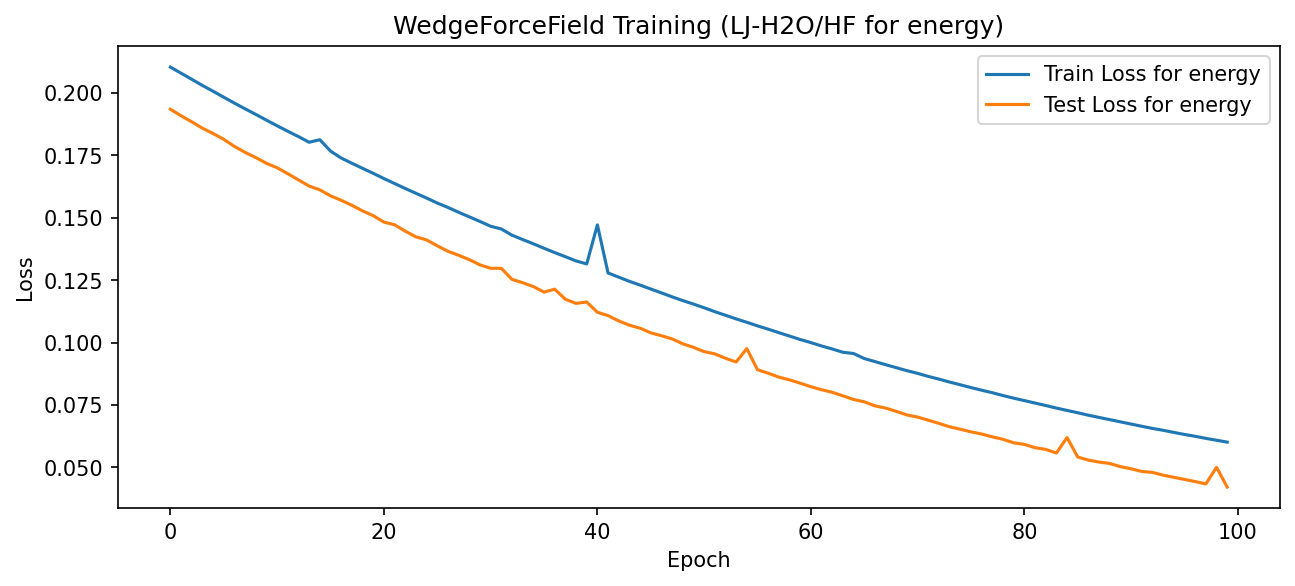
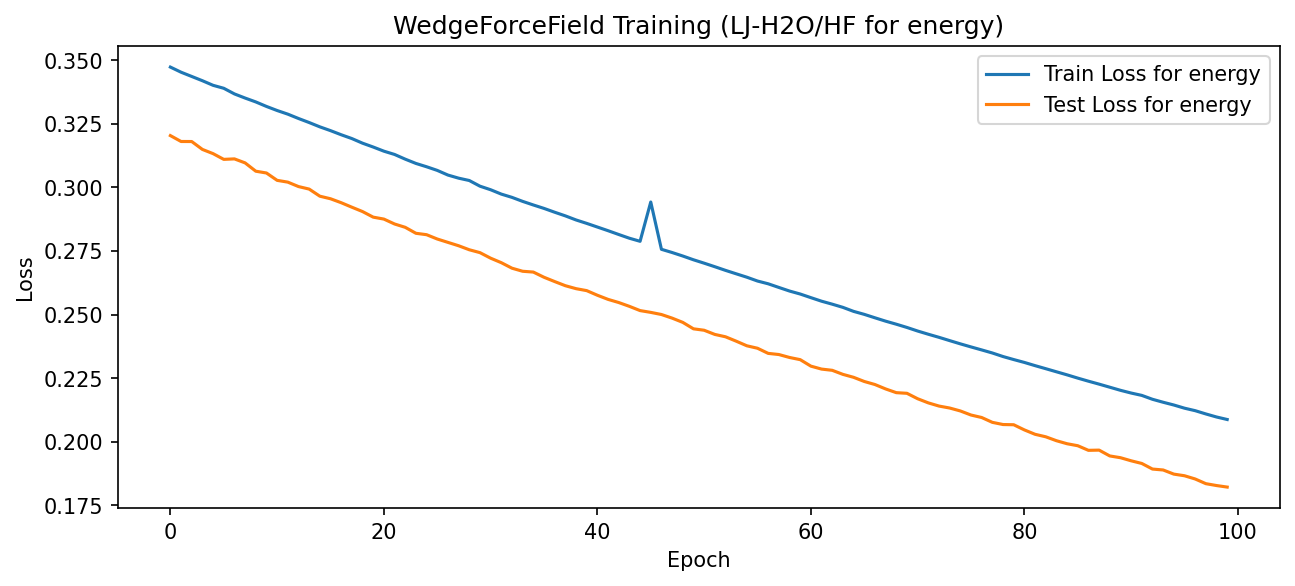
testing rnn model

diff --git a/rnn_model.py b/rnn_model.py
@@ -99,9 +99,12 @@ class RNNModel(nn.Module):
         self.to(device)
 
     def forward_energy(self, edge_feats):
+
+        
         """x: input with shape (batch_size, seq_length, input_size)"""
         # rnn returns output and h_n
         x = edge_feats.unsqueeze(0)
+        
         rnn_out, h_n = self.edge_rnn(x)
         # take the last output from the last timestep
         last_output = rnn_out[:, -1, :] # shape is (batch_size, hidden_size)
@@ -111,7 +114,7 @@ class RNNModel(nn.Module):
         return output.squeeze()
 
     def energy_per_atom(self, node_feats, edge_feats, triplets):
-        total_E = self.forward_energy(node_feats)
+        total_E = self.forward_energy(edge_feats)
         N = node_feats.size(0)
         return total_E / N
 
@@ -219,8 +222,6 @@ def molecules_to_tensors(molecules, device):
         # 2. Edge features
         if N >= 2:
             edge_feats = get_edge_features(els, pos)
-            if len(edge_feats) == 2:
-                edge_feats = edge_feats.reshape(1, 2)
             if edge_feats.ndim == 1:
                 edge_feats = np.zeros((0, 2))
         else:
@@ -559,7 +560,7 @@ def main():
 
     print("Loading/generating model")
     # 4. Initialize model and optimizer
-    model = RNNModel(input_size = 2, hidden_size=10, output_size=1, num_layers=2)
+    model = RNNModel(input_size = 1, hidden_size=10, output_size=1, num_layers=1)
     if os.path.exists(model_filename):
         model.load_state_dict(torch.load(model_filename, map_location=device))
         print(f"Training model loaded from {model_filename}")

diff --git a/ff_script.py b/ff_script.py
@@ -118,6 +118,8 @@ class WedgeMLP(nn.Module):
         self.to(device)
 
     def forward_energy(self, node_feats, edge_feats, triplets):
+        
+        
         node_E = self.node_net(node_feats).sum()
         edge_E = self.edge_net(edge_feats).sum()
         if len(triplets) > 0:
@@ -558,14 +560,16 @@ def main():
         batch_size=32,
         collate_fn=collate_fn,
         shuffle=True,
-        num_workers=0
+        num_workers=0,
+        sampler=SubsetRandomSampler(train_idx)
     )
     test_loader  = DataLoader(
         dataset,
         batch_size=32,
         collate_fn=collate_fn,
         shuffle=False,
-        num_workers=0
+        num_workers=0,
+        sampler=SubsetRandomSampler(test_idx)
     )
 
     print("Loading/generating model")
